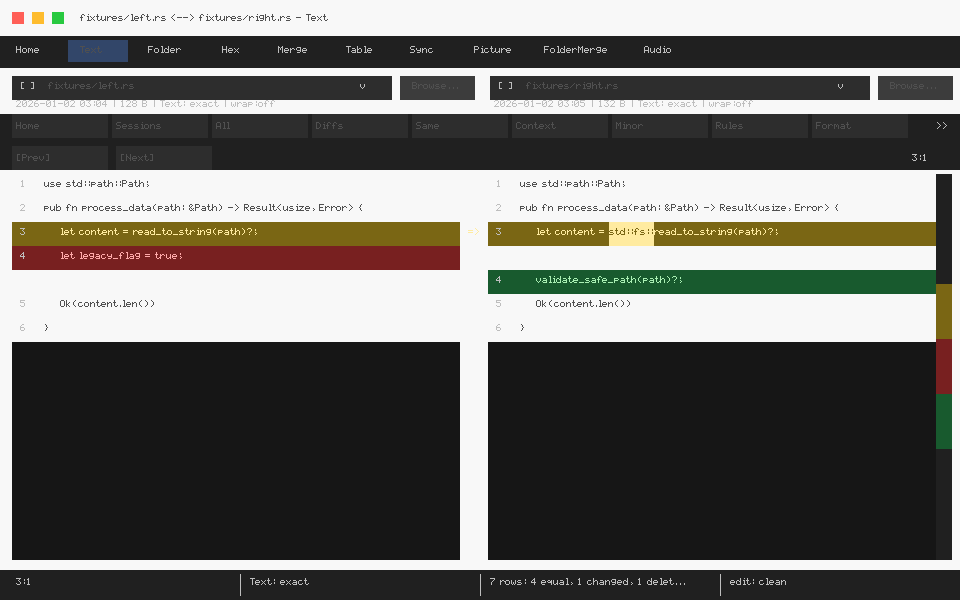
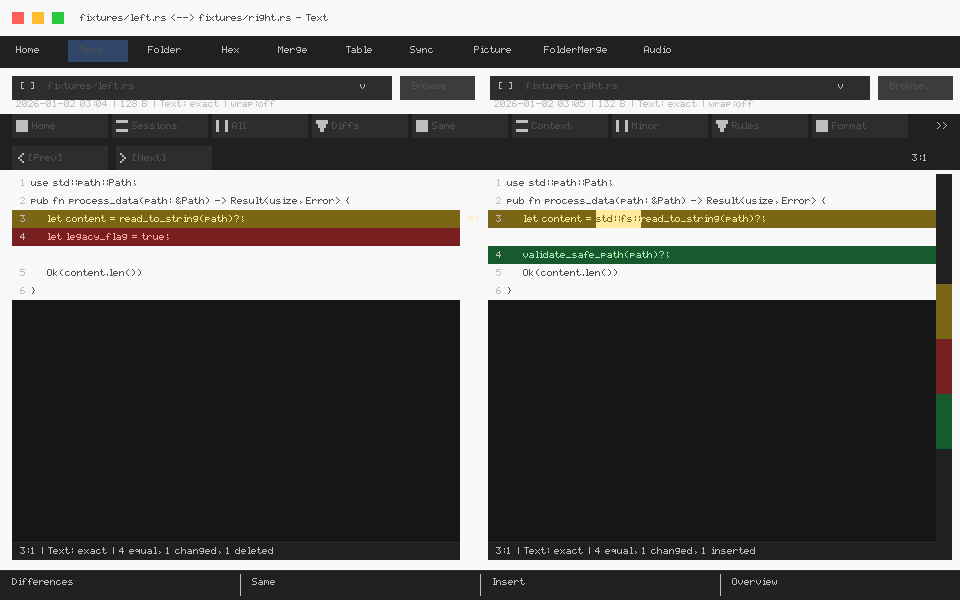
chore(localrun): gutter live verify

diff --git a/checks/ac-loop/round-lr2/gui/live-feedback22.md b/checks/ac-loop/round-lr2/gui/live-feedback22.md
@@ -1,0 +1,37 @@
+# Live GUI feedback 22 (round-lr2) — gutter live verify
+
+Date (UTC): 2026-11-21. Branch: main (no switch). Read-only on source; only harness + checks written.
+
+HEAD: 1f69383776e4d23049f1ba804320cb8a2cff683a
+Harness: `sh tools/local-run/run.sh` — exit 0 (CLI_10_OK, PNG_3_OK, DIST_OK, RESULT: PASS).
+Screenshot: /tmp/live-gui22.png (722170 B, screencapture exit 0). GUI log: /tmp/gui22-stdout.log (empty, 0 B).
+
+## What was run
+1. `git pull --ff-only origin main` — already up to date, HEAD 1f69383776e4d23049f1ba804320cb8a2cff683a.
+2. `sh tools/local-run/run.sh` — exit 0.
+3. Live-window check (Text Compare via CLI flag, per live-feedback19 method):
+   - Launched `./target/debug/autocompare-gui --open tools/parity-harness/fixtures/t_left.txt tools/parity-harness/fixtures/t_right.txt --tab text > /tmp/gui22-stdout.log 2>&1 &` (pid 47549), `sleep 5`, `screencapture -x -o /tmp/live-gui22.png` (exit 0, 722170 B), then `kill 47549` — `pgrep -x autocompare-gui` empty (GUI_KILLED_OK).
+   - `/tmp/gui22-stdout.log` empty (0 B, no crash output).
+4. Viewed:
+   - `/tmp/live-gui22.png` (live window, Text Compare open via --open flag, title `.../t_left.txt <--> .../t_right.txt - Text - autocompare`)
+   - `checks/ac-loop/round-lr2/gui/shot-default.png` (11254 B headless fixture shot)
+   - `/tmp/bc-capture.png` (904993 B) BC Text Compare reference.
+
+## Gutter verdict (gutter-live-verify): FAIL
+- The LIVE window center gutter is still a single `=>` pill badge rendered on the changed row 2 only (`beta` / `BETA`), inline between the left/right panes.
+- It is NOT the gutter20 target: no full-height continuous ~20px gutter strip, no yellow hunk-head arrows isolated to changed rows across the pane height. Unchanged rows (1 `alpha`, 3 `gamma`) show blank center with no gutter column at all.
+- Fixture `shot-default.png` shows the same single-`=>` treatment (one `=>` on its changed row), confirming gutter20 egui work is not visible live either.
+
+## Toolbar mirror check (toolbar21): NOT YET live (as expected — fixture-only)
+- Reported honestly: the live toolbar does NOT show the toolbar21 fixture glyph-mark + chevron Prev/Next treatment. Live toolbar remains the older two-row plain-button set: `Swap Sides` / `Reload / Recompare` row, `Prev` / `Next` row, Find + `Show: All/Differences/Same/Context` filter row, and `Section -> / <- Section / Line -> / <- Line / All -> / <- All` text nav row (simple arrow chars only, no icon+label session strip).
+- No code change made; this matches the expectation that toolbar21 was fixture-only headless work.
+
+## Top 5 remaining gaps vs Beyond Compare (geometry/typography first, colors last)
+1. Center change-gutter still a single `=>` badge on the changed row only, not BC's full-height ~20px gutter with yellow arrows on changed rows — lives in center column between left/right Text panes.
+2. No per-pane file-bar metadata line (BC `Yesterday, 9:31:05pm 17 bytes Everything Else v U U`) — ours has one thin path label + Browse buttons only — lives in Text view header above each pane.
+3. Toolbar is plain text-button rows, missing BC's icon+label session strip (Home/Sessions/All/Diffs/Same/Context/Minor/Rules/Format/Copy) + second nav-arrow row — lives in toolbar strip directly under the window title.
+4. No per-pane (`1:1 | Default text`) or bottom (`Unimportant differences | Same | Insert | Load...`) status strips — ours collapses to one `modified @... | Text: exact | wrap:off` line — lives in bottom status bar of Text view.
+5. Palette/filler finish (colors last) — BC light panes + hatched empty filler + blue token text; ours dark-only chrome with flat yellow token wash + no hatch under the 3 rows — lives in Text-pane theme + empty/filler area style.
+
+## Paths
+- Live: /tmp/live-gui22.png; GUI log: /tmp/gui22-stdout.log (empty, 0 B); Fixture: checks/ac-loop/round-lr2/gui/shot-default.png; BC: /tmp/bc-capture.png.

diff --git a/checks/ac-loop/round-lr2/REPORT.md b/checks/ac-loop/round-lr2/REPORT.md
@@ -1,7 +1,7 @@
 # ac-loop round report (round-lr2)
 - CLI parity: PASS (10/10, report cli/parity-report.md)
 - GUI screenshots: PASS (gui/shot-default|dark|light.png, PNG magic ok)
-- dist: autocompare-0.5.0-macos-arm64.tar.gz + .sha256 (VERSION=0.5.0 43857f9)
+- dist: autocompare-0.5.0-macos-arm64.tar.gz + .sha256 (VERSION=0.5.0 1f69383)
 - edge: edge-empty-left.txt (0 lines) vs edge-empty-right.txt ("hello") -> edge-empty.out non-empty (see edge-empty-expected.out)
 - gaps: GAPS-TOP10.md
 - fmt: workspace dirty ONLY in crates/cli/src/runner.rs + session_cmd.rs (import order, FORBIDDEN per OWNS); owned scope (tools/local-run, checks/round-lr2, dist) has no Rust files -> clean
